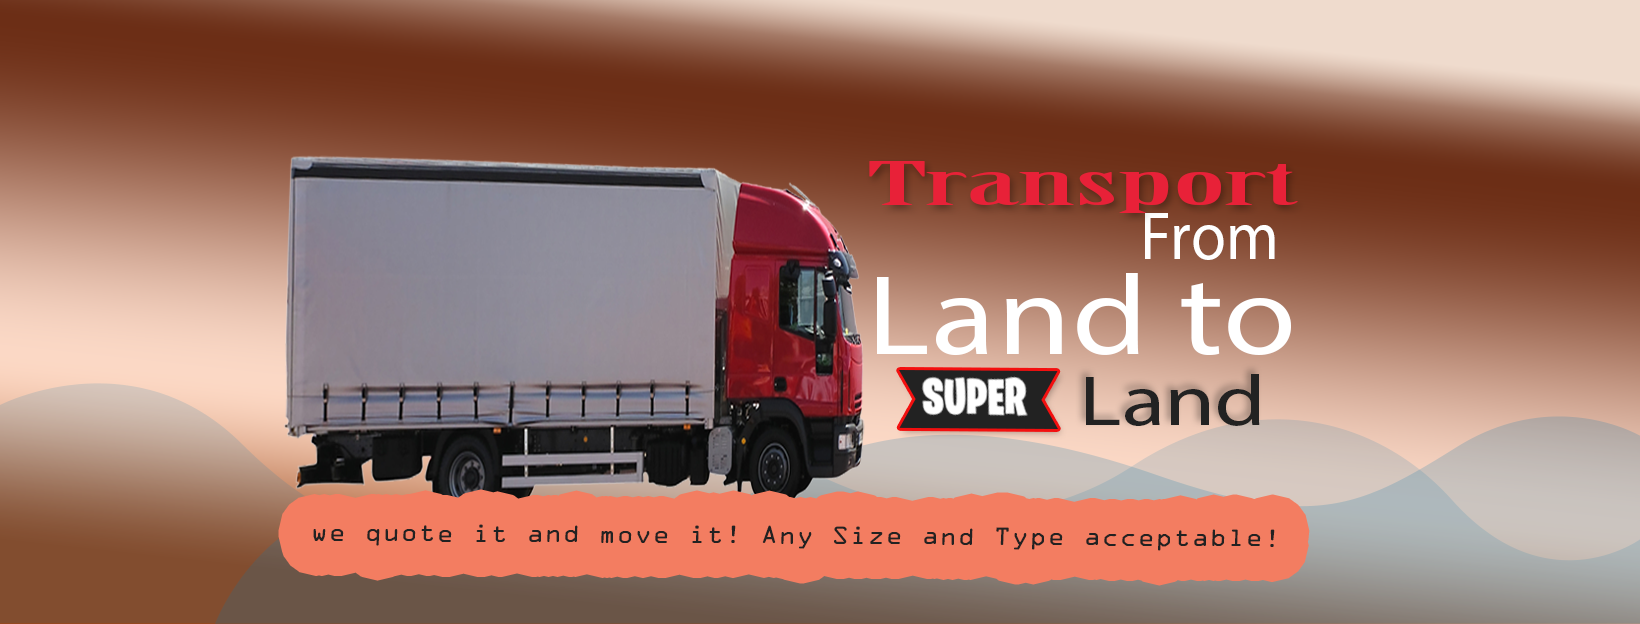
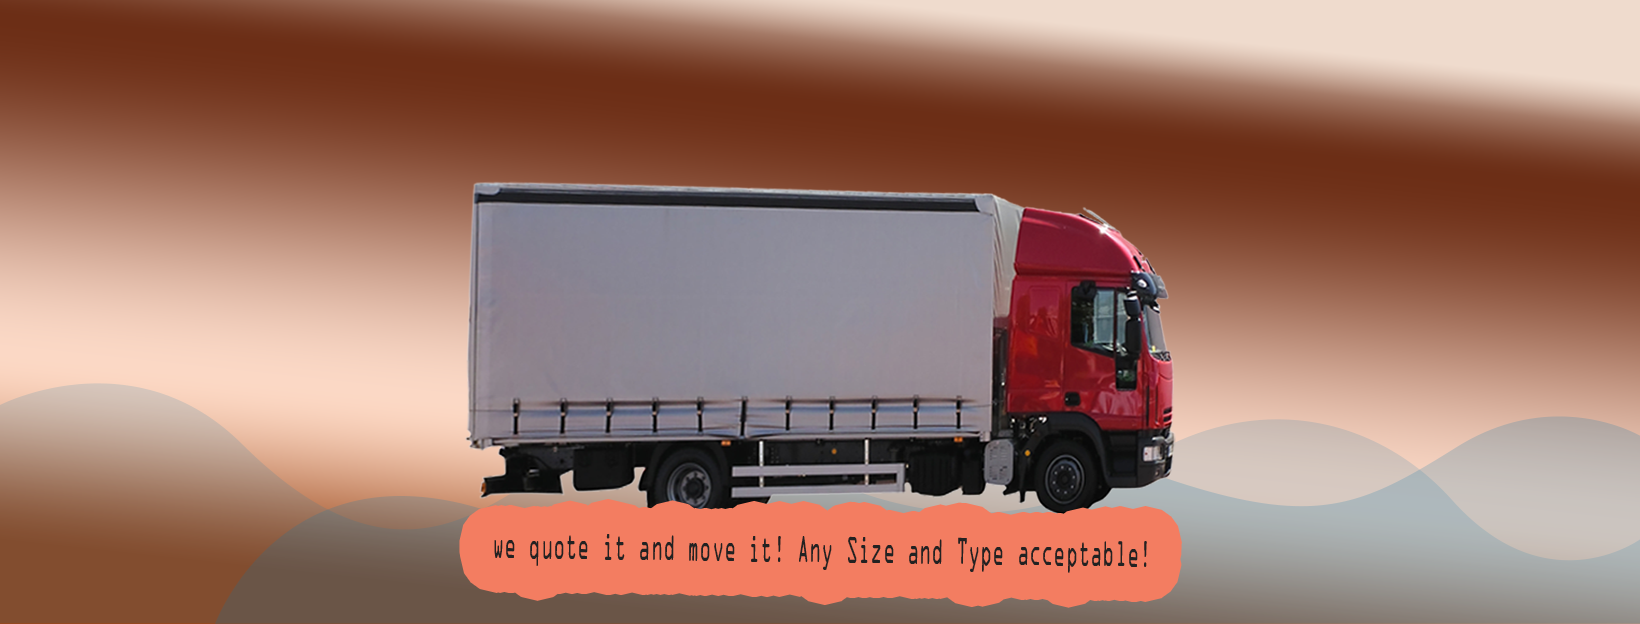
some change

Changed region(s): [[0.1555, 0.2436, 0.8085, 0.9744]]

diff --git a/index.html b/index.html
@@ -34,7 +34,7 @@
   <header id="header" class="fixed-top ">
     <div class="container d-flex align-items-center">
 
-      <a href="index.html" class="logo mr-auto"><img src="img/logo.PNG" alt="" class="img-fluid"></a>
+      <a href="index.html" class="logo mr-auto"><img src="img/logo.png" alt="" class="img-fluid"></a>
 
 
       <nav class="nav-menu d-none d-lg-block">
@@ -53,69 +53,6 @@
     </div>
   </header><!-- End Header -->
 
-  <!-- ======= Hero Section ======= -->
-  <!-- <section id="hero" class="d-flex align-items-center">
-
-    <div class="container">
-      <div class="row">
-         <div class="col-lg-6 d-flex flex-column justify-content-center pt-4 pt-lg-0 order-2 order-lg-1" data-aos="fade-up" data-aos-delay="200">
-          <h1><small>Land, Air and Water For all your Transport and Logistics services</small></h1>
-          <h2>From land to air transport, from product sourcing to Conventional collection,
-             from regular to recommended cargo transport, from Local to international, from 
-             parcel to bulk cargo, TRIPOD Logistics Ltd will remain your preferred partner.</h2>
-   
-        </div> 
-        <div class="col-lg-12 " data-aos="zoom-in" data-aos-delay="200">
-      
-          <div class="swiper-container">
-            <div class="swiper-wrapper">
-              
-              <div class="swiper-slide">
-                <div class="imgBx">
-                  <img src="img/banner2.png"  alt="">
-                </div>
-              </div>
-              <div class="swiper-slide">
-                <div class="imgBx">
-                  <img src="img/pro6.jpg"  alt="">
-                </div>
-              </div>
-
-              <div class="swiper-slide">
-                <div class="imgBx">
-                  <img src="img/pro2.jpg"  alt="">
-                </div>
-              </div>
-        
-              <div class="swiper-slide">
-                <div class="imgBx">
-                  <img src="img/pro3.jpg"  alt="">
-                </div>
-              </div>
-
-              <div class="swiper-slide">
-                <div class="imgBx">
-                  <img src="img/pro4.jpg"  alt="">
-                </div>
-              </div>
-              <div class="swiper-slide">
-                <div class="imgBx">
-                  <img src="img/pro5.jpg"  alt="">
-                </div>
-              </div>
-
-           
-
-         
-            </div>
-        
-            <div class="swiper-pagination"></div>
-          </div>
-        </div>
-      </div>
-    </div>
-  </section> -->
-  <!-- End Hero -->
 
   <!-- ======= Hero Section ======= -->
   <section id="hero">
@@ -133,10 +70,6 @@
         <div class="carousel-item" style="background-image: url(img/test3.png)">
         </div>
 
-
-<!-- 
-        <div class="carousel-item" style="background-image: url(img/web.jpg)">
-        </div> -->
 
         <!-- Slide 3 -->
         <div class="carousel-item" style="background-image: url(img/test1.png)">
@@ -164,16 +97,8 @@
       <div class="container">
 
         <div class="row" data-aos="zoom-in">
-           <div class="col-lg-3">
-          <h6>
-            Land, Air and Water For all your Transport and Logistics services
-          </h6>
-        </div>
-
-
-
-
-          <div class="col-lg-9">
+         
+          <div class="col-lg-12">
             <!-- <h6><small> -->
             <h6>
               From land to air transport, from product sourcing to Conventional collection,

diff --git a/mzigopack.html b/mzigopack.html
@@ -24,7 +24,7 @@
   <!-- ======= Header ======= -->
   <header id="header" class="fixed-top ">
     <div class="container d-flex align-items-center">
-       <a href="index.html" class="logo mr-auto"><img src="img/logo.PNG" alt="" class="img-fluid"></a>
+       <a href="index.html" class="logo mr-auto"><img src="img/logo.png" alt="" class="img-fluid"></a>
       <nav class="nav-menu d-none d-lg-block">
         <ul>
           <li class="active"><a href="index.html">Home</a></li>

diff --git a/eazymzigo.html b/eazymzigo.html
@@ -24,7 +24,7 @@
   <!-- ======= Header ======= -->
   <header id="header" class="fixed-top ">
     <div class="container d-flex align-items-center">
-      <a href="index.html" class="logo mr-auto"><img src="img/logo.PNG" alt="" class="img-fluid"></a>
+      <a href="index.html" class="logo mr-auto"><img src="img/logo.png" alt="" class="img-fluid"></a>
 
       <nav class="nav-menu d-none d-lg-block">
         <ul>

diff --git a/css/style.css b/css/style.css
@@ -490,6 +490,17 @@ h1, h2, h3, h4, h5, h6 {
 }
 
 @media (max-width: 991px) {
+.carousel-inner{
+padding-left: 300px;
+padding-right: 300px;
+}
+
+.carousel-inner.carousel-item{
+ width: 500px;
+  }
+}
+
+@media (max-width: 991px) {
   #hero {
     height: 100vh;
     text-align: center;
